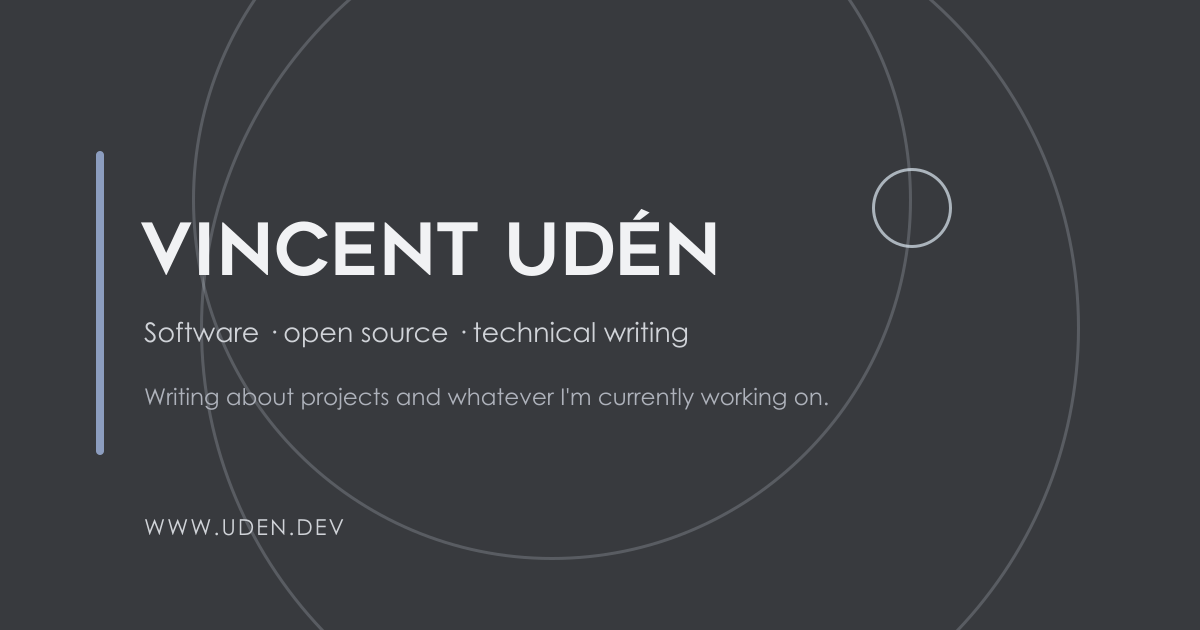
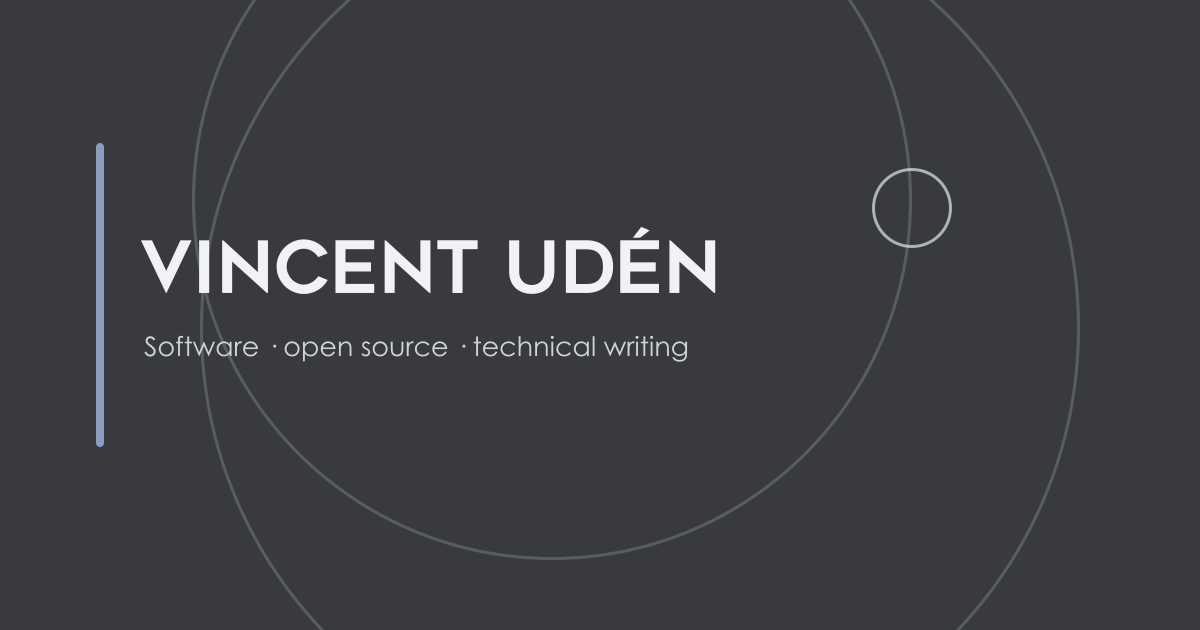
Social card for blog posts

diff --git a/src/utils/social-card.js b/src/utils/social-card.js
@@ -1,0 +1,147 @@
+import * as fontkit from "fontkit";
+import { readFile } from "node:fs/promises";
+import { resolve } from "node:path";
+import sharp from "sharp";
+
+const titleFont = fontkit.openSync(
+  resolve(process.cwd(), "public/font/Geometos.ttf"),
+);
+const bodyFont = fontkit.openSync(
+  resolve(process.cwd(), "public/font/CenturyGothic.ttf"),
+);
+const template = readFile(resolve(process.cwd(), "src/assets/social-card.svg"), "utf8");
+
+const TEXT_X = 140;
+const SUBTITLE_X = 144;
+const MAX_TEXT_WIDTH = 940;
+const TITLE_SIZE = 72;
+const TITLE_LINE_HEIGHT = 82;
+const SUBTITLE_SIZE = 27;
+const SUBTITLE_LINE_HEIGHT = 36;
+const GROUP_GAP = 20;
+const BLOCK_CENTER_Y = 295;
+const MAX_TITLE_LINES = 2;
+const MAX_SUBTITLE_LINES = 3;
+
+function measureText(text, font, fontSize) {
+  const scale = fontSize / font.unitsPerEm;
+  return font.layout(text).positions.reduce(
+    (width, position) => width + position.xAdvance * scale,
+    0,
+  );
+}
+
+function wrapText(text, font, fontSize, maxWidth, maxLines) {
+  const words = text.trim().split(/\s+/u).filter(Boolean);
+  const lines = [];
+  let currentLine = "";
+
+  for (const word of words) {
+    const candidate = currentLine ? `${currentLine} ${word}` : word;
+    if (!currentLine || measureText(candidate, font, fontSize) <= maxWidth) {
+      currentLine = candidate;
+    } else {
+      lines.push(currentLine);
+      currentLine = word;
+    }
+  }
+  if (currentLine) lines.push(currentLine);
+  if (lines.length <= maxLines) return lines.length ? lines : [""];
+
+  const visibleLines = lines.slice(0, maxLines);
+  let finalLine = visibleLines[maxLines - 1].replace(/[.…]+$/u, "");
+  while (
+    finalLine &&
+    measureText(`${finalLine}…`, font, fontSize) > maxWidth
+  ) {
+    const lastSpace = finalLine.lastIndexOf(" ");
+    finalLine = lastSpace > 0
+      ? finalLine.slice(0, lastSpace)
+      : Array.from(finalLine).slice(0, -1).join("");
+  }
+  visibleLines[maxLines - 1] = `${finalLine}…`;
+  return visibleLines;
+}
+
+function textToPaths(text, font, x, baseline, fontSize) {
+  const scale = fontSize / font.unitsPerEm;
+  const run = font.layout(text);
+  let cursorX = x;
+
+  return run.glyphs
+    .map((glyph, index) => {
+      const position = run.positions[index];
+      const glyphX = cursorX + position.xOffset * scale;
+      const glyphY = baseline - position.yOffset * scale;
+      cursorX += position.xAdvance * scale;
+
+      const path = glyph.path.toSVG();
+      if (!path) return "";
+
+      return `<path d="${path}" transform="translate(${glyphX.toFixed(3)} ${glyphY.toFixed(3)}) scale(${scale} ${-scale})"/>`;
+    })
+    .join("\n");
+}
+
+export async function generateSocialCard(title, subtitle) {
+  const titleLines = wrapText(
+    title,
+    titleFont,
+    TITLE_SIZE,
+    MAX_TEXT_WIDTH,
+    MAX_TITLE_LINES,
+  );
+  const subtitleLines = wrapText(
+    subtitle,
+    bodyFont,
+    SUBTITLE_SIZE,
+    MAX_TEXT_WIDTH,
+    MAX_SUBTITLE_LINES,
+  );
+  const blockHeight =
+    titleLines.length * TITLE_LINE_HEIGHT +
+    GROUP_GAP +
+    subtitleLines.length * SUBTITLE_LINE_HEIGHT;
+  const blockTop = BLOCK_CENTER_Y - blockHeight / 2;
+  const titleBaselineStart = blockTop + TITLE_SIZE * 0.93;
+  const subtitleBaselineStart =
+    blockTop + titleLines.length * TITLE_LINE_HEIGHT + GROUP_GAP + SUBTITLE_SIZE * 1.04;
+  const accentHeight = Math.max(304, blockHeight + 48);
+  const accentTop = BLOCK_CENTER_Y - accentHeight / 2;
+
+  const titlePaths = titleLines
+    .map((line, index) =>
+      textToPaths(
+        line,
+        titleFont,
+        TEXT_X,
+        titleBaselineStart + index * TITLE_LINE_HEIGHT,
+        TITLE_SIZE,
+      ),
+    )
+    .join("\n");
+  const subtitlePaths = subtitleLines
+    .map((line, index) =>
+      textToPaths(
+        line,
+        bodyFont,
+        SUBTITLE_X,
+        subtitleBaselineStart + index * SUBTITLE_LINE_HEIGHT,
+        SUBTITLE_SIZE,
+      ),
+    )
+    .join("\n");
+
+  let svg = await template;
+  const replacements = {
+    "<!-- ACCENT_BAR -->": `<rect x="96" y="${accentTop.toFixed(2)}" width="8" height="${accentHeight.toFixed(2)}" rx="4" fill="#8c9dbf"/>`,
+    "<!-- TITLE_PATHS -->": titlePaths,
+    "<!-- SUBTITLE_PATHS -->": subtitlePaths,
+  };
+  for (const [marker, value] of Object.entries(replacements)) {
+    if (!svg.includes(marker)) throw new Error(`Missing SVG marker: ${marker}`);
+    svg = svg.replace(marker, value);
+  }
+
+  return sharp(Buffer.from(svg)).png().toBuffer();
+}

diff --git a/src/pages/social-card/blog/[slug].png.ts b/src/pages/social-card/blog/[slug].png.ts
@@ -1,0 +1,25 @@
+import type { APIRoute } from "astro";
+import { getCollection } from "astro:content";
+import { generateSocialCard } from "../../../utils/social-card.js";
+
+export async function getStaticPaths() {
+  const posts = await getCollection("blog");
+  return posts.map((post) => ({
+    params: { slug: post.id },
+    props: {
+      title: post.data.title,
+      summary: post.data.preview,
+    },
+  }));
+}
+
+export const GET: APIRoute = async ({ props }) => {
+  const image = await generateSocialCard(props.title, props.summary);
+
+  return new Response(new Uint8Array(image), {
+    headers: {
+      "Content-Type": "image/png",
+      "Cache-Control": "public, max-age=31536000, immutable",
+    },
+  });
+};
